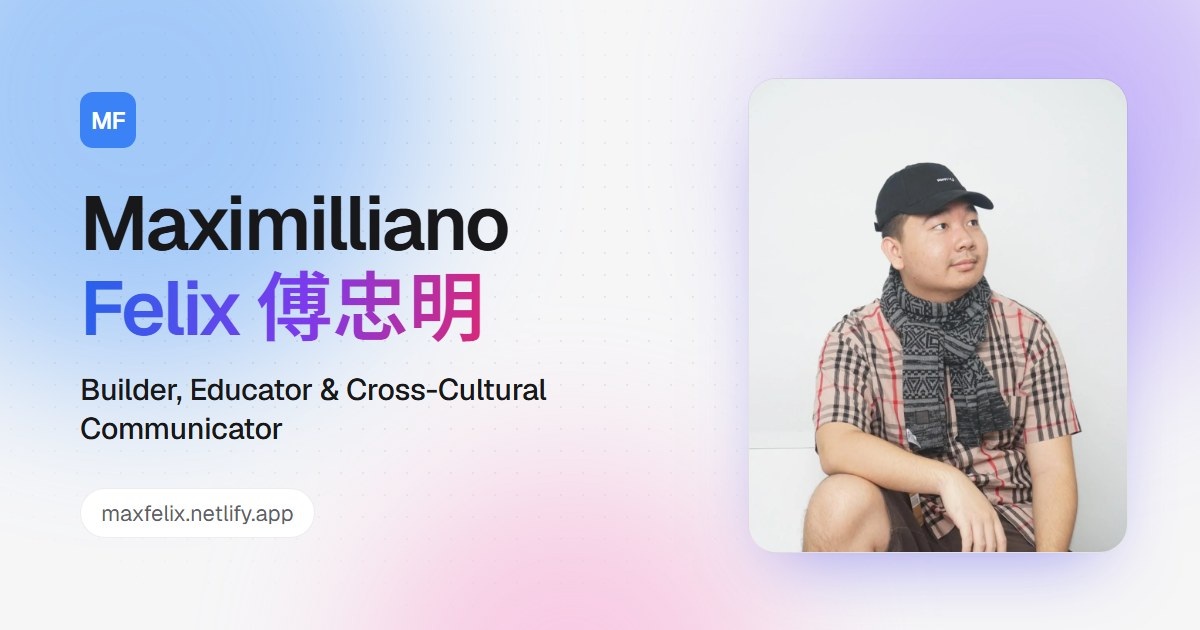
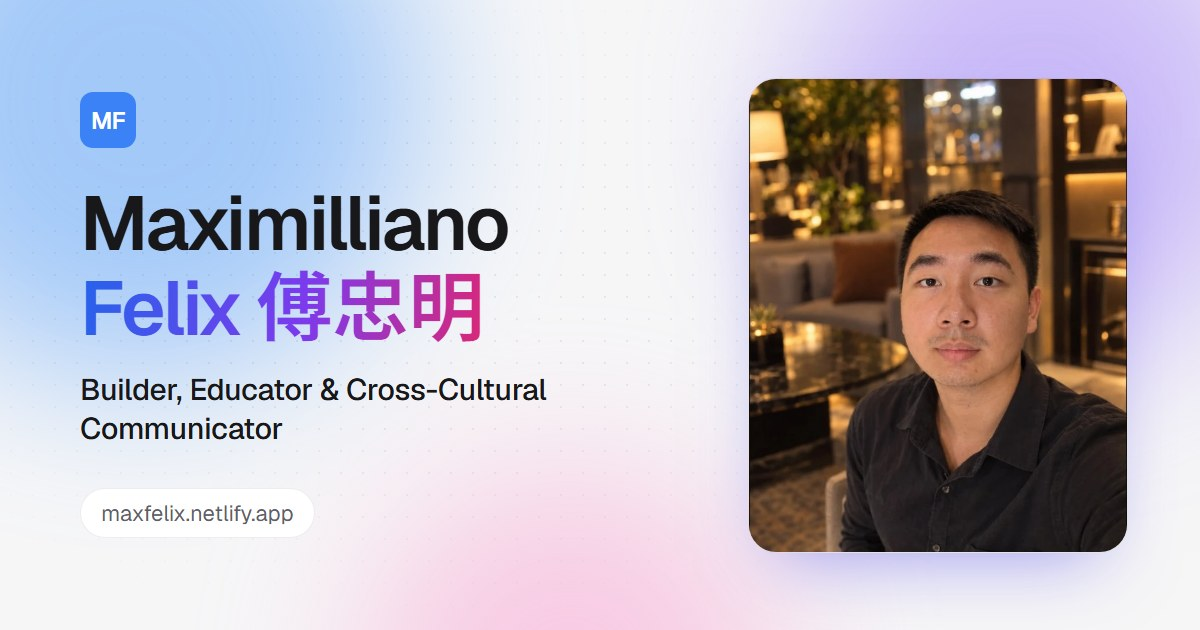
New

Changed region(s): [[0.6167, 0.1206, 0.9558, 0.8746]]

diff --git a/Website/index-id.html b/Website/index-id.html
@@ -659,7 +659,7 @@
           </div>
 
           <div class="hero-photo" data-enter style="--i:2">
-            <img src="Images/Profile_Picture.webp" alt="Maximilliano Felix" width="979" height="1280" fetchpriority="high" />
+            <img src="Images/Profile_Picture.webp" alt="Maximilliano Felix" width="591" height="767" fetchpriority="high" />
             <div class="hero-socials">
               <a href="https://github.com/FullyMed" target="_blank" rel="noopener noreferrer" class="icon-btn" aria-label="GitHub"><i class="ri-github-fill" aria-hidden="true"></i></a>
               <a href="https://www.linkedin.com/in/maximilliano-felix-gunawan-polandouw-064541316/" target="_blank" rel="noopener noreferrer" class="icon-btn" aria-label="LinkedIn"><i class="ri-linkedin-box-fill" aria-hidden="true"></i></a>

diff --git a/Website/index-ja.html b/Website/index-ja.html
@@ -659,7 +659,7 @@
           </div>
 
           <div class="hero-photo" data-enter style="--i:2">
-            <img src="Images/Profile_Picture.webp" alt="Maximilliano Felix" width="979" height="1280" fetchpriority="high" />
+            <img src="Images/Profile_Picture.webp" alt="Maximilliano Felix" width="591" height="767" fetchpriority="high" />
             <div class="hero-socials">
               <a href="https://github.com/FullyMed" target="_blank" rel="noopener noreferrer" class="icon-btn" aria-label="GitHub"><i class="ri-github-fill" aria-hidden="true"></i></a>
               <a href="https://www.linkedin.com/in/maximilliano-felix-gunawan-polandouw-064541316/" target="_blank" rel="noopener noreferrer" class="icon-btn" aria-label="LinkedIn"><i class="ri-linkedin-box-fill" aria-hidden="true"></i></a>

diff --git a/Website/index-ko.html b/Website/index-ko.html
@@ -659,7 +659,7 @@
           </div>
 
           <div class="hero-photo" data-enter style="--i:2">
-            <img src="Images/Profile_Picture.webp" alt="Maximilliano Felix" width="979" height="1280" fetchpriority="high" />
+            <img src="Images/Profile_Picture.webp" alt="Maximilliano Felix" width="591" height="767" fetchpriority="high" />
             <div class="hero-socials">
               <a href="https://github.com/FullyMed" target="_blank" rel="noopener noreferrer" class="icon-btn" aria-label="GitHub"><i class="ri-github-fill" aria-hidden="true"></i></a>
               <a href="https://www.linkedin.com/in/maximilliano-felix-gunawan-polandouw-064541316/" target="_blank" rel="noopener noreferrer" class="icon-btn" aria-label="LinkedIn"><i class="ri-linkedin-box-fill" aria-hidden="true"></i></a>

diff --git a/Website/index-zh.html b/Website/index-zh.html
@@ -659,7 +659,7 @@
           </div>
 
           <div class="hero-photo" data-enter style="--i:2">
-            <img src="Images/Profile_Picture.webp" alt="Maximilliano Felix" width="979" height="1280" fetchpriority="high" />
+            <img src="Images/Profile_Picture.webp" alt="Maximilliano Felix" width="591" height="767" fetchpriority="high" />
             <div class="hero-socials">
               <a href="https://github.com/FullyMed" target="_blank" rel="noopener noreferrer" class="icon-btn" aria-label="GitHub"><i class="ri-github-fill" aria-hidden="true"></i></a>
               <a href="https://www.linkedin.com/in/maximilliano-felix-gunawan-polandouw-064541316/" target="_blank" rel="noopener noreferrer" class="icon-btn" aria-label="LinkedIn"><i class="ri-linkedin-box-fill" aria-hidden="true"></i></a>

diff --git a/Website/index.html b/Website/index.html
@@ -659,7 +659,7 @@
           </div>
 
           <div class="hero-photo" data-enter style="--i:2">
-            <img src="Images/Profile_Picture.webp" alt="Maximilliano Felix" width="979" height="1280" fetchpriority="high" />
+            <img src="Images/Profile_Picture.webp" alt="Maximilliano Felix" width="591" height="767" fetchpriority="high" />
             <div class="hero-socials">
               <a href="https://github.com/FullyMed" target="_blank" rel="noopener noreferrer" class="icon-btn" aria-label="GitHub"><i class="ri-github-fill" aria-hidden="true"></i></a>
               <a href="https://www.linkedin.com/in/maximilliano-felix-gunawan-polandouw-064541316/" target="_blank" rel="noopener noreferrer" class="icon-btn" aria-label="LinkedIn"><i class="ri-linkedin-box-fill" aria-hidden="true"></i></a>

diff --git a/Website/CLAUDE.md b/Website/CLAUDE.md
@@ -66,8 +66,8 @@ the user at the start of a new session; when one is done, remove it here and in 
    2026-10-24. Restore the link on the `#p-frogs` card (all 5 pages) if it comes back.
 4. **"Certifications coming soon"** is still a placeholder in the About facts card. The user may
    fill it in, or ask to hide it. Don't invent certifications.
-5. **`Images/Profile_Picture.jpg` is unused** (pages use the `.webp`). Can be deleted if the user
-   agrees.
+5. **`Images/Profile_Picture.jpg` is unused** (pages use the `.webp`, and since 2026-10-24 the
+   `.jpg` isn't even the current photo). Can be deleted if the user agrees.
 6. **Commit messages are all "New".** Suggestion only (the user commits themselves): short
    descriptive messages would make history easier to search and undo.
 
@@ -194,8 +194,12 @@ The site lives in the repo's `Website/` subfolder next to unrelated personal fil
   site uses.
 - `vendor/leaflet/` - self-hosted Leaflet.js + CSS + marker images (used by the contact-section
   map instead of pulling Leaflet from a CDN not on the CSP allowlist).
-- `Images/Profile_Picture.webp` - the hero portrait (979x1280). `Profile_Picture.jpg` is the
-  original it was converted from; no page references it any more.
+- `Images/Profile_Picture.webp` - the portrait (591x767): hero photo, header and footer avatar,
+  and `og-image.jpg`. Replaced on 2026-10-24 with a photo the user supplied (dark shirt, warm
+  lounge background), used as-is (no EXIF/GPS in it). The hero `<img>` carries
+  `width="591" height="767"` on all 5 pages; update those if the photo changes, and re-render
+  the preview image. `Profile_Picture.jpg` is the older photo the previous `.webp` was converted
+  from; no page references it any more.
 - `Images/projects/*.webp` - 1440x900 screenshots of the live demos (BoardGames Analyzer,
   Talent_AI, JourneySet, PX Mart Finder), taken with headless Edge on 2026-10-16. Retake them if
   a demo's look changes. `three-frogs.webp` (1440x557) is a screenshot the user supplied on
@@ -270,7 +274,7 @@ So when a page's `<title>` or description changes, update its `og:`/`twitter:` t
 description to match. If a language page is added or renamed, update the hreflang block on all 5
 pages, the `og:locale:alternate` lists, and `sitemap.xml`.
 
-- **Preview image:** `Images/og-image.jpg` (1200x630, about 80 KB), one image shared by all 5
+- **Preview image:** `Images/og-image.jpg` (1200x630, about 90 KB), one image shared by all 5
   pages: name with the gradient on "Felix 傅忠明", tagline, URL pill, and the portrait, on the
   hero's off-white + blurred blue/violet/pink glow. Rendered from `scripts/og-image.html` with
   headless Edge (the command is in that file's top comment), then saved as JPEG at quality 88.
